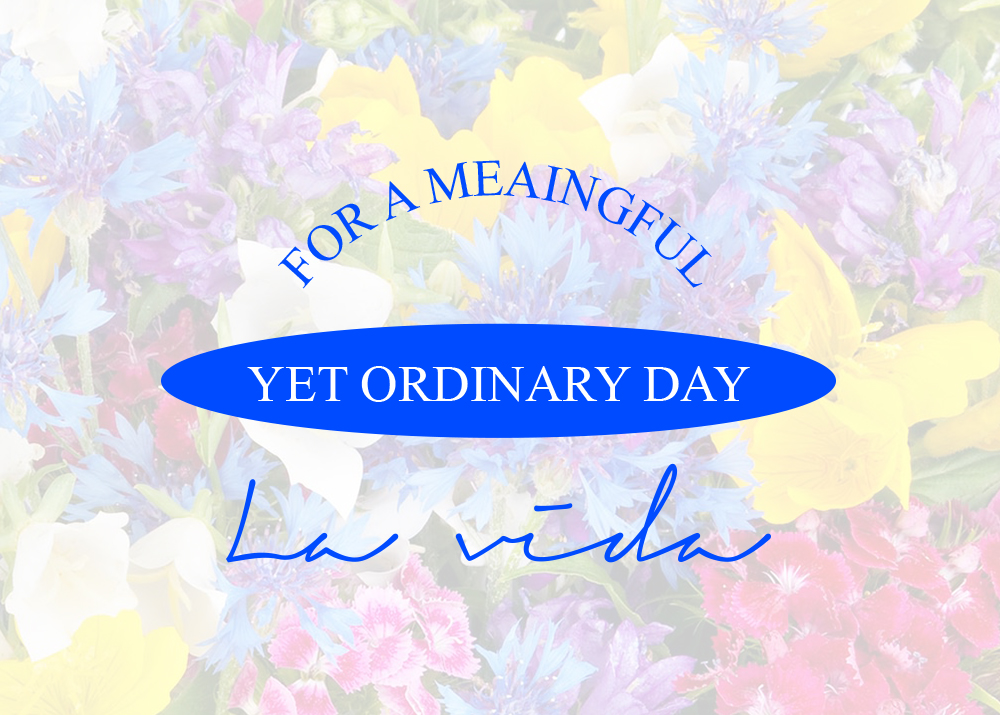
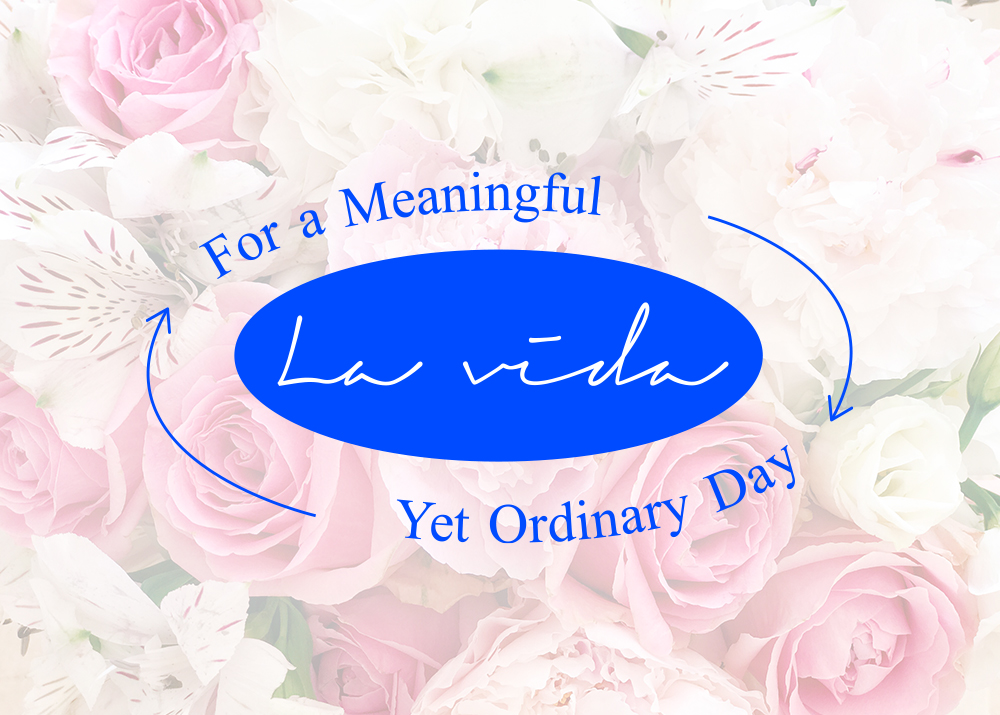
Issue-30 Add Lavida (#31)
* issue-30 Add LA VIDA contents

* issue-30 Fix typo in hwayeon_02.jpg

* issue-30 Fix typo

* issue-30 Fix svgs

* issue-30 Change overflow to overflow-y

diff --git a/pages/projects/[projectSlug]/index.tsx b/pages/projects/[projectSlug]/index.tsx
@@ -300,7 +300,7 @@ const ScrollableArea = styled(Column)`
   top: 0;
   right: 0;
   bottom: 0;
-  overflow: scroll;
+  overflow-y: scroll;
   
   ${responsive.lgLte} {
     position: static;
